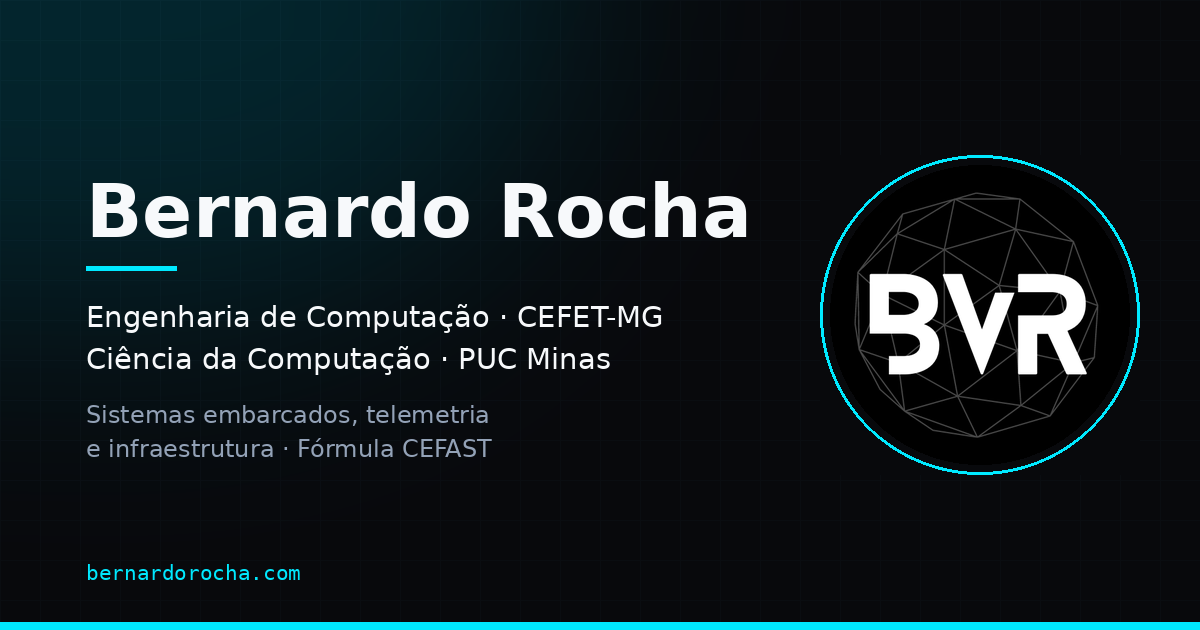
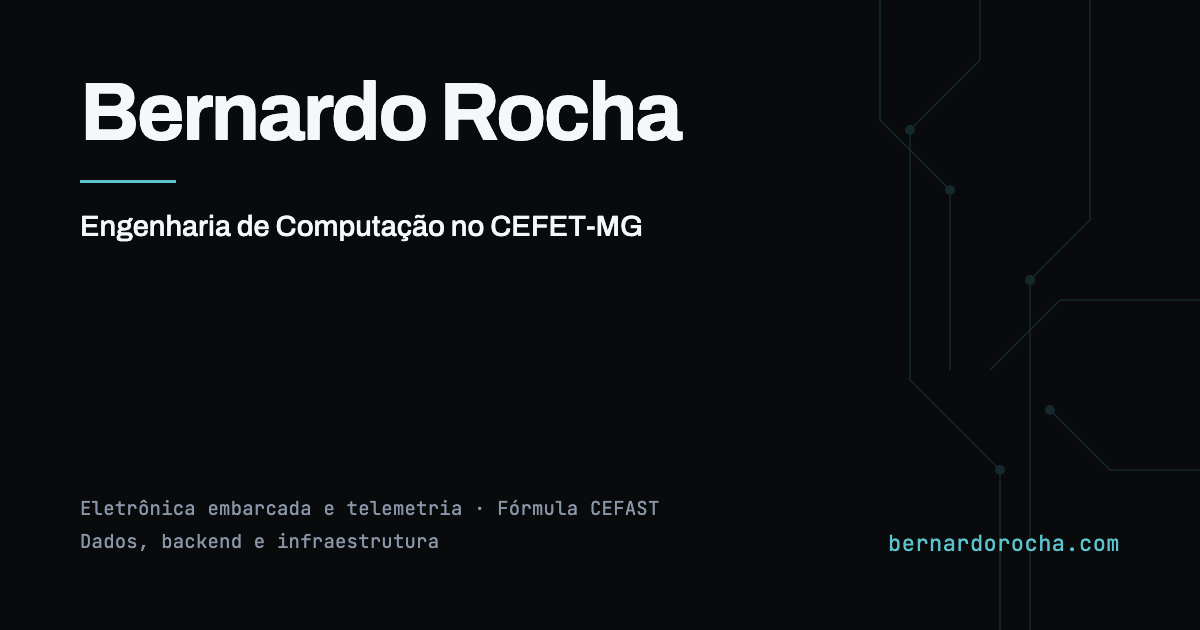
feat: refaz o og-image, que ainda alegava a dupla graduacao
O card de previa dizia "Ciencia da Computacao - PUC Minas", e ele aparece em
toda previa de link do site: WhatsApp, LinkedIn, Twitter. Era a ultima
superficie ainda afirmando a graduacao que ele parou.

Refeito com os tokens reais do site em vez de arte solta: fundo e primaria
lidos do index.css, Archivo e JetBrains Mono auto-hospedadas, e os tracos de
circuito ecoando o CircuitTraces.tsx. Sem slogan, como manda a regra 3.

O HTML que gera a imagem fica versionado em assets/og-image-fonte.html, para a
proxima atualizacao nao ser um trabalho de editor de imagem.

107 KB caem para 42 KB.

diff --git a/assets/og-image-fonte.html b/assets/og-image-fonte.html
@@ -1,0 +1,50 @@
+<!doctype html><html lang="pt-BR"><head><meta charset="utf-8">
+<style>
+  @font-face{font-family:"Archivo";src:url("../public/fonts/archivo-latin.woff2") format("woff2");font-weight:100 900;font-display:block}
+  @font-face{font-family:"JetBrains Mono";src:url("../public/fonts/jetbrains-mono-latin.woff2") format("woff2");font-weight:100 800;font-display:block}
+  *{margin:0;padding:0;box-sizing:border-box}
+  html,body{width:1200px;height:630px}
+  body{
+    background:hsl(220 20% 4%);
+    color:hsl(210 30% 97%);
+    font-family:"Archivo",sans-serif;
+    display:flex;flex-direction:column;justify-content:space-between;
+    padding:72px 80px;
+    position:relative;overflow:hidden;
+  }
+  /* traços de circuito, o mesmo efeito característico do site, bem discreto */
+  .traces{position:absolute;inset:0;opacity:.16}
+  .name{font-size:82px;font-weight:700;letter-spacing:-.03em;line-height:1;position:relative}
+  .rule{width:96px;height:3px;background:hsl(185 52% 58%);margin:26px 0 24px;position:relative}
+  .role{font-size:29px;font-weight:500;color:hsl(210 30% 97%);line-height:1.35;position:relative;max-width:820px}
+  .work{font-family:"JetBrains Mono",monospace;font-size:19px;color:hsl(215 15% 60%);line-height:1.75;position:relative;letter-spacing:.01em}
+  .foot{display:flex;justify-content:space-between;align-items:flex-end;position:relative}
+  .site{font-family:"JetBrains Mono",monospace;font-size:22px;color:hsl(185 52% 58%);letter-spacing:.02em}
+</style></head><body>
+<svg class="traces" viewBox="0 0 1200 630" fill="none" aria-hidden="true">
+  <g stroke="hsl(185 52% 58%)" stroke-width="1.5">
+    <path d="M880 0 v120 l70 70 v180"/>
+    <path d="M980 0 v60 l-70 70 v250 l90 90 v160"/>
+    <path d="M1090 0 v220 l-60 60 v350"/>
+    <path d="M1200 300 h-140 l-70 70"/>
+    <path d="M1200 470 h-90 l-60 -60"/>
+  </g>
+  <g fill="hsl(185 52% 58%)">
+    <circle cx="950" cy="190" r="5"/><circle cx="910" cy="130" r="5"/>
+    <circle cx="1030" cy="280" r="5"/><circle cx="1000" cy="470" r="5"/>
+    <circle cx="1050" cy="410" r="5"/>
+  </g>
+</svg>
+<div>
+  <div class="name">Bernardo Rocha</div>
+  <div class="rule"></div>
+  <div class="role">Engenharia de Computação no CEFET-MG</div>
+</div>
+<div class="foot">
+  <div class="work">
+    Eletrônica embarcada e telemetria · Fórmula CEFAST<br>
+    Dados, backend e infraestrutura
+  </div>
+  <div class="site">bernardorocha.com</div>
+</div>
+</body></html>
